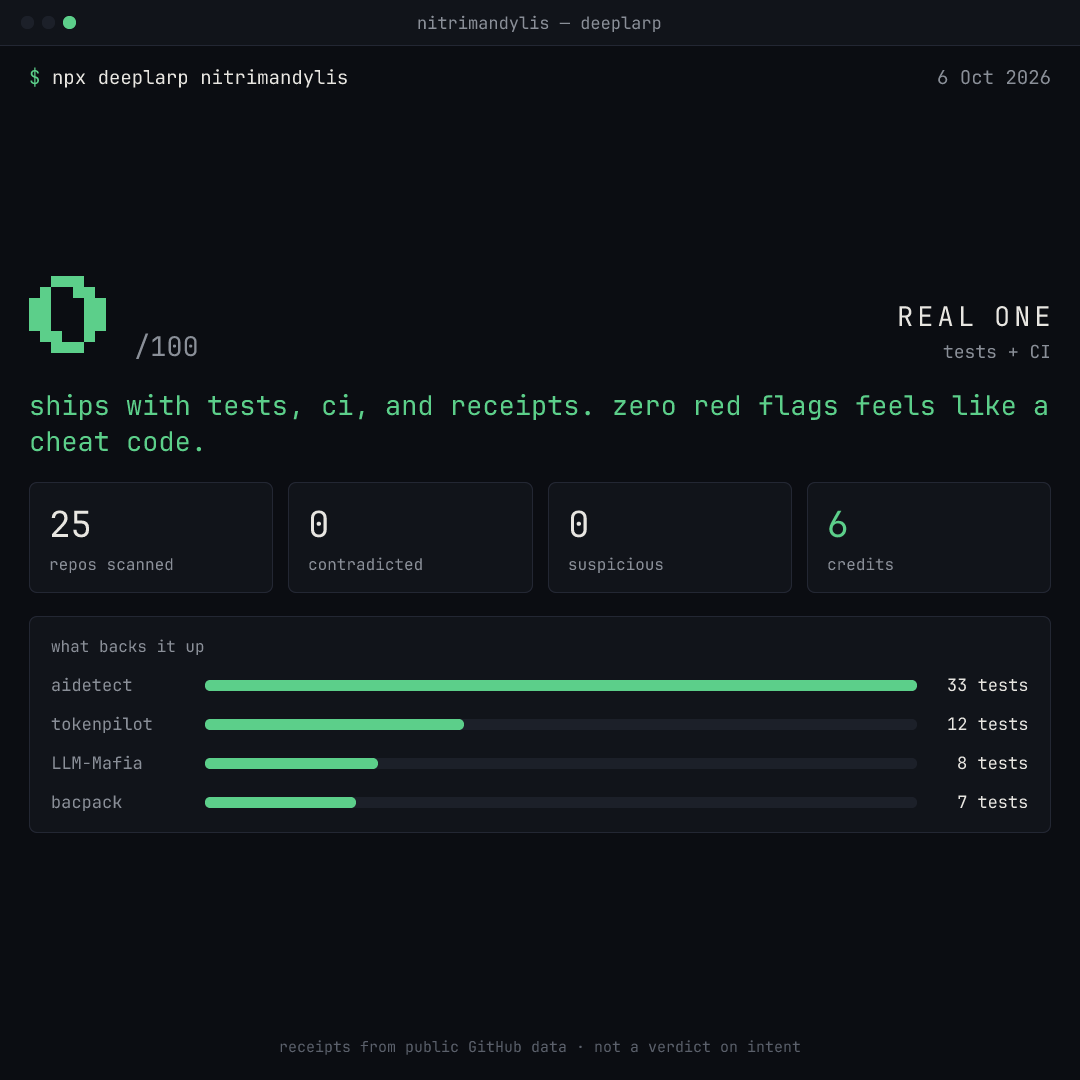
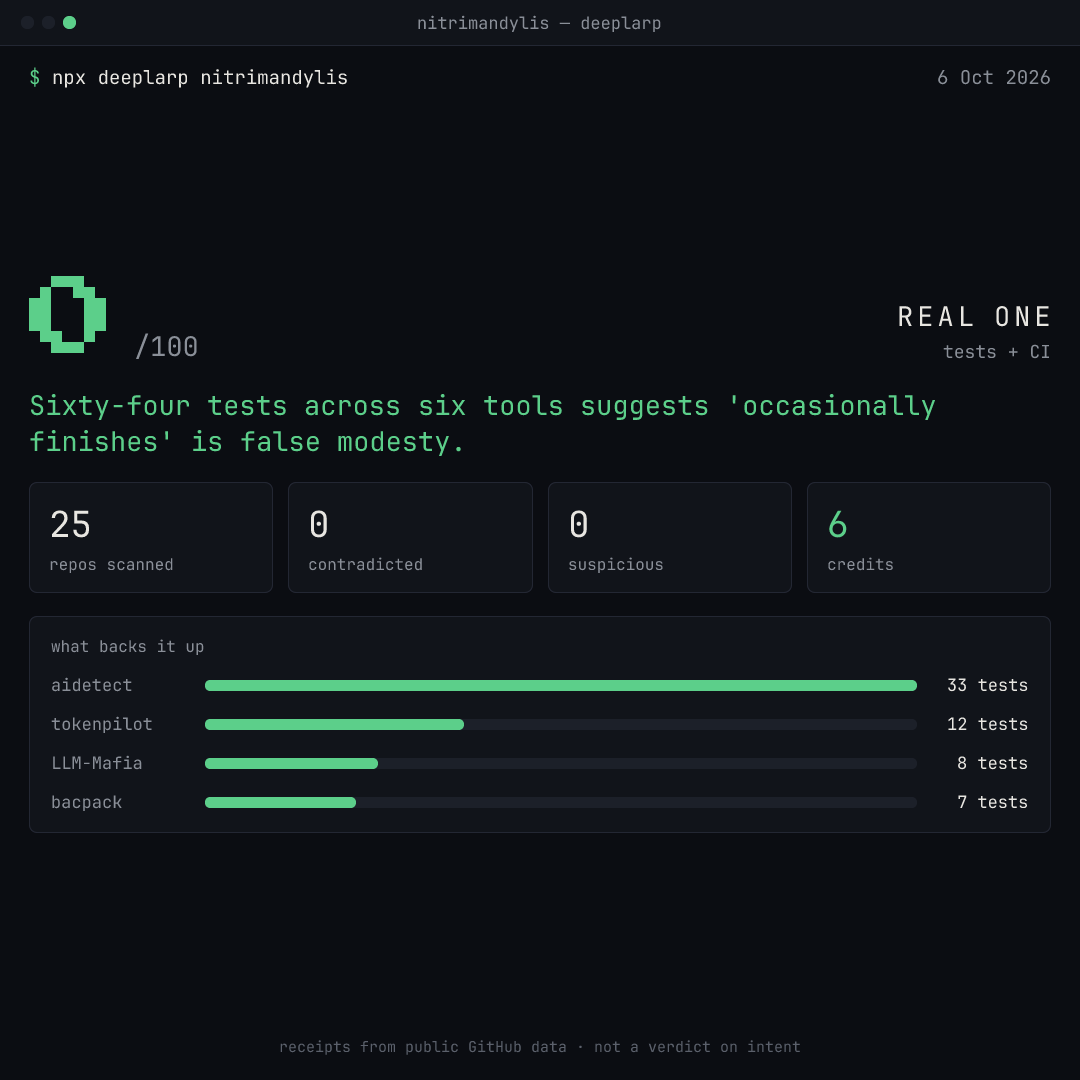
scan public repos only, add agent skill

Changed region(s): [[0.0306, 0.3667, 0.9778, 0.4278]]

diff --git a/src/gh.ts b/src/gh.ts
@@ -234,7 +234,7 @@ query($login: String!, $prQuery: String!) {
   user(login: $login) {
     login name bio createdAt
     pinnedItems(first: 6, types: REPOSITORY) { nodes { ... on Repository { nameWithOwner } } }
-    repositories(first: 100, ownerAffiliations: OWNER, orderBy: {field: STARGAZERS, direction: DESC}) {
+    repositories(first: 100, ownerAffiliations: OWNER, privacy: PUBLIC, orderBy: {field: STARGAZERS, direction: DESC}) {
       nodes { nameWithOwner isFork stargazerCount createdAt pushedAt }
       pageInfo { hasNextPage endCursor }
     }
@@ -246,7 +246,7 @@ query($login: String!, $prQuery: String!) {
 const REPOS_PAGE_QUERY = `
 query($login: String!, $after: String!) {
   user(login: $login) {
-    repositories(first: 100, after: $after, ownerAffiliations: OWNER, orderBy: {field: STARGAZERS, direction: DESC}) {
+    repositories(first: 100, after: $after, ownerAffiliations: OWNER, privacy: PUBLIC, orderBy: {field: STARGAZERS, direction: DESC}) {
       nodes { nameWithOwner isFork stargazerCount createdAt pushedAt }
       pageInfo { hasNextPage endCursor }
     }

diff --git a/deeplarp-cli/SKILL.md b/deeplarp-cli/SKILL.md
@@ -1,0 +1,51 @@
+---
+name: deeplarp-cli
+description: Drive the deeplarp CLI, which gives a GitHub profile or repo a 0-100 larp score by checking what its README and bio claim against what the code shows, with receipts, an archetype, a roast line and a shareable card. Use whenever the user asks if a GitHub profile or repo is legit, overhyped, a wrapper, a tutorial clone or has a faked contribution graph, wants someone's GitHub roasted, wants their own GitHub audited or a fix list, or mentions deeplarp or a larp score.
+---
+
+# deeplarp
+
+```bash
+npx deeplarp                 # the user's own profile (their gh login): fix list + card
+npx deeplarp <user>          # a profile: pinned repos + top 20 by stars
+npx deeplarp <owner>/<repo>  # one repo
+```
+
+Not on PATH and no network for npx? It has not been installed. Offer `npm i -g deeplarp`. Inside the repo, use `bun src/cli.ts`.
+
+## Setup
+
+- Needs Node 20+ and a GitHub token: `gh auth token` first, then `GITHUB_TOKEN`. There is no anonymous mode. Without either it exits 1 with a sentence saying so. Never read or print the token.
+- The `claude` CLI is optional. Without it, or with `--no-llm`, the score is identical. Only the claims list and roast line change.
+
+## Everything runs unattended
+
+No command opens a picker, a TUI or a server, and none waits for input. Safe to run from a tool call.
+
+```bash
+npx deeplarp <target> --json --no-llm   # the right default for an agent: one JSON value on stdout, writes nothing
+```
+
+JSON keys: `score` (null for NPC), `capped`, `archetype`, `groups` (Wrapper/Tutorial/Farmer points), `signals` (`id`, `group`, `tier`, `points`, `receipts`), `target`, `kind` (profile or repo), `self`, `quip`, `fixes`, `claims`, `reposScanned`, `npcReason`, `model`, `apiCalls`. Errors go to stderr with exit 1.
+
+## Costs
+
+| run | cost |
+|---|---|
+| cached (same target within 24h) | instant, 0 API calls |
+| profile, default | ~150 API calls, 7-13 s. One token gets ~33 uncached profiles an hour |
+| `--all` | ~5 API calls per repo. Slow on big profiles |
+| `--fresh` | skips the cache, full cost again |
+| `claude -p` pass (default) | adds up to 90 s and uses the user's own Claude usage. `--no-llm` skips it |
+
+## Things that will bite you
+
+- **Writes a PNG to the current directory** when scanning the user's own profile without `--json`, or with any card flag (`--card`, `--layout`, `--theme`, `--format`, `--handle`). Pass `--card <path>` to put it somewhere on purpose, or `--json` to write nothing.
+- **NPC is not a score.** Under 3 non-fork repos or an account under 30 days gives `score: null` and `npcReason`. Don't report it as 0.
+- **Receipts, not verdicts.** The score is heuristics over public data. Say what the receipts show ("README says production-ready, repo has no code"), never that someone is lying or a fraud.
+- **Suspicion alone caps at 74.** A 74 means "lots of suspicious, nothing contradicted", not "nearly caught".
+- **Repo scans skip the profile signals** (fork padding, backdated commits, merged PRs). Scan the user, not one repo, to judge a person.
+
+## What it cannot do
+
+Organisations, private repos, GitLab, LinkedIn, star buying, years of experience. It doesn't judge code quality either, only claims against code.

diff --git a/PRODUCT.md b/PRODUCT.md
@@ -83,6 +83,7 @@ Local commits only until v1 is done. Publish after.
 Steps 1-9 done. Step 10 (publish) prepared, not shipped.
 
 - Publish prep (2026-10-06): runs on Node 20+ (Bun only for dev, tests and the build), so `npx deeplarp` works. `bun build` bundles `src/cli.ts` to `dist/cli.js`, `prepack` builds it. Tarball is `dist/` + `assets/` (fonts with their OFL texts), no tests or calibration. MIT LICENSE and README added. `.github/workflows/publish.yml` is copied from agent-wrapped/brushwork: OIDC trusted publishing on GitHub release, environment `npm`. It does nothing until a trusted publisher exists, and npm can't create one for an unpublished package, so 0.1.0 goes up by hand (`npm publish`). From 0.1.1 on, a GitHub release is the only publish path.
+- shipping-clis audit (2026-10-06): verify battery passes (JSON on stdout only, `--help` in any position, unknown flags, bad values, no token, no `claude`, unknown user all exit with a sentence). Found and fixed: the repo query had no privacy filter, so a self-scan with the gh token included 4 private repos (`pi` was in the receipts). Now `privacy: PUBLIC`. Added `deeplarp-cli/SKILL.md` for agents. No man page and no vhs demo: published tools can't install a man page, and the card PNG is the hero.
 - The listed claims now read the same 500-char pitch window signal 3 scores on (was 2000). The kernel README's note to "AI-powered coding assistants" was showing up as a torvalds claim.
 
 - Real-world pass (2026-10-05): 60 profiles. 17 working devs (contributors ranked 15 to 30 on next.js, react, deno, ruff, tailwind, django): all Real One or NPC. 10 "AI founder"-style bios: all Real One after fixes. 27 clone/hype repo owners: 10 Real One (each backed by real tests or merged PRs), 10 Unproven, 2 Tutorial Graduate, 4 NPC, 1 org (not scannable). Owners of LLM-wrapper repos: Wrapper Founder, 50/100. Fixes from it: fork padding needs half the profile, self-declared SDKs/wrappers skip signal 2, template tests and CI-only no longer earn P1, template weight 15 -> 20, Unproven archetype.

diff --git a/README.md b/README.md
@@ -80,7 +80,11 @@ npx deeplarp someuser --card --layout story --theme red
 | `--format` | png, svg, both |
 | `--handle <name>` | name on the card |
 
-A big profile costs about 150 API calls and 7-13 seconds, which works out to around 33 uncached scans an hour on one token.
+A big profile costs about 150 API calls and 7-13 seconds, which works out to around 33 uncached scans an hour on one token. Only public repos are scanned, including on your own profile, so the card never shows a private repo name.
+
+### 🤖 For agents
+
+[`deeplarp-cli/SKILL.md`](deeplarp-cli/SKILL.md) tells a coding agent how to drive it: the `--json` keys, what each run costs in API calls and seconds, when a PNG lands in the current directory, and why NPC isn't a 0. Every command runs unattended (nothing opens a picker or waits for input). Copy the folder into your agent's skills directory, for example `cp -R deeplarp-cli ~/.claude/skills/`.
 
 ## 🔩 Under the hood
 
